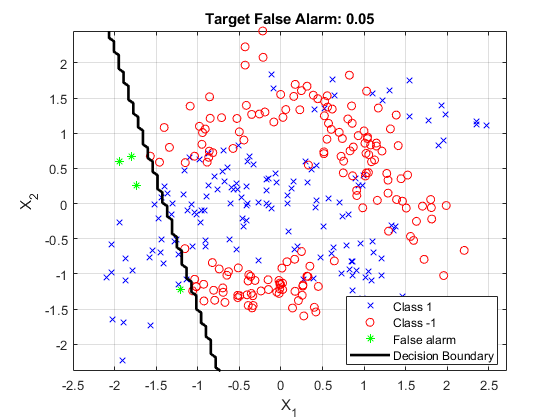
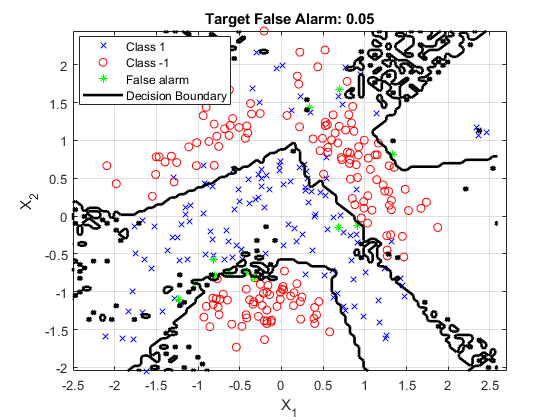
update figures

diff --git a/main.m b/main.m
@@ -9,15 +9,15 @@ test_size = 0.15;
 augmentation_size = 150e3;
 test_repeat = 100;
 cross_val_MC = 8;
-tfpr = 0.1;
+tfpr = 0.2;
 
 % Define model hyper-parameter space
 hyperparams.eta_init = 0.01;
 hyperparams.beta_init = 100;
 hyperparams.gamma = 1;
 hyperparams.sigmoid_h = -1;
-hyperparams.lambda = [0,1e-6];
-hyperparams.tree_depth = [7,8,9,10];
+hyperparams.lambda = 0;
+hyperparams.tree_depth = 8;
 hyperparams.split_prob = 0.5;
 hyperparams.node_loss_constant = 1;
 

diff --git a/README.md b/README.md
@@ -23,6 +23,7 @@ In order to run the full pipeline with a new dataset
 
 # Expected Decision Boundaries
 When input data is 2D, it is possible to visualize decision boundaries. I included 2 decision boundaries for target false alarms 0.05 and 0.2.<br/>
+We use tree depth of 8.<br/>
 <img src="figures/db_005.png">
 <img src="figures/db_020.png">
 
